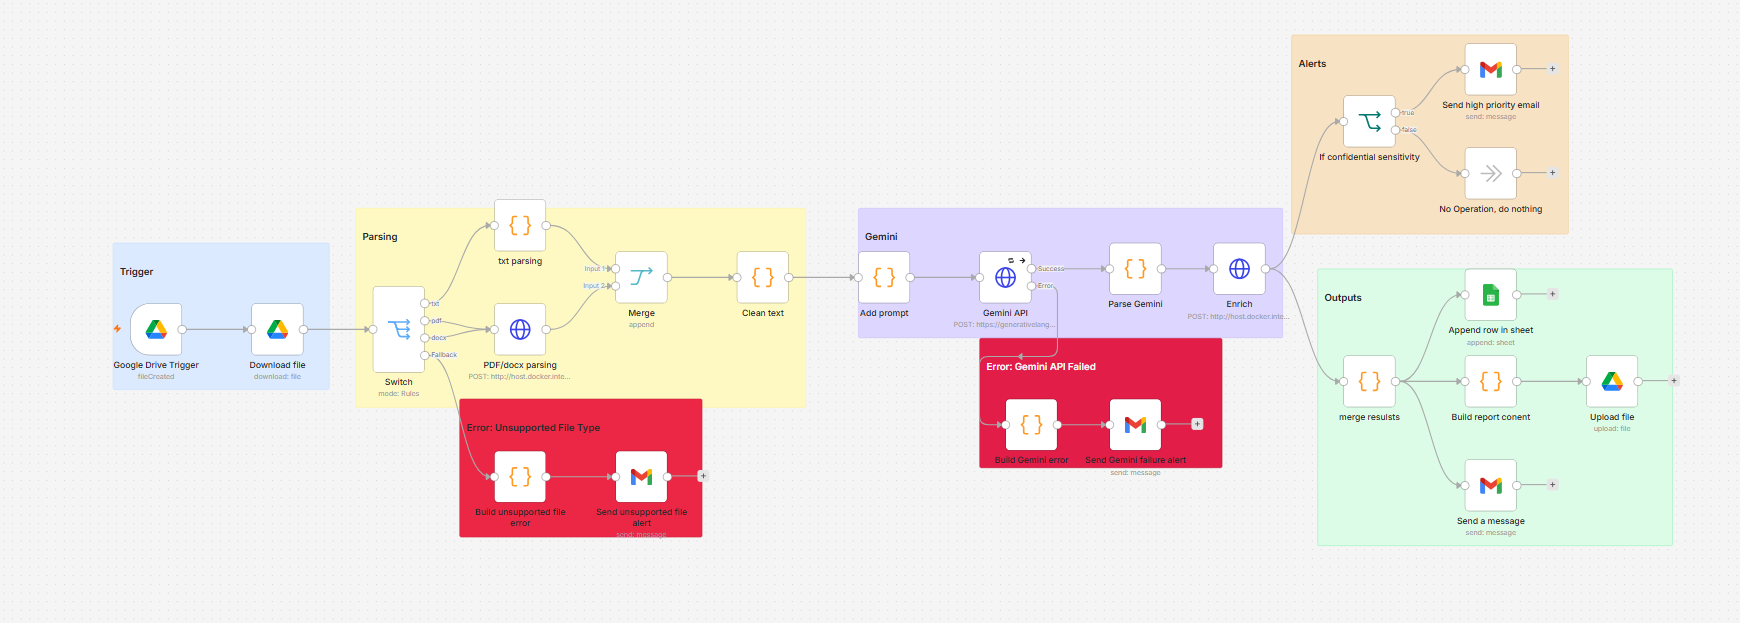
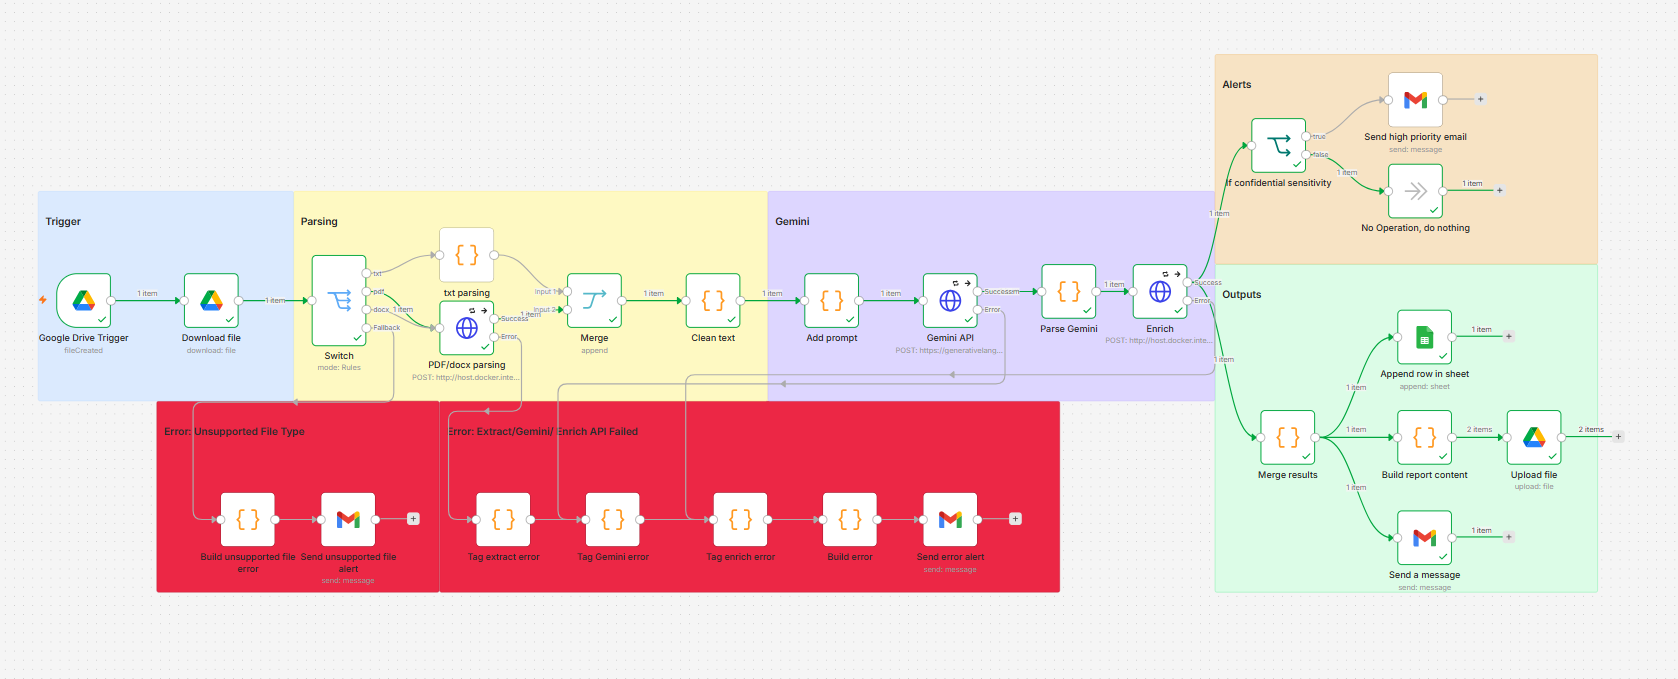
Add unified API error handling and update workflow docs

diff --git a/README.md b/README.md
@@ -1,6 +1,6 @@
 # Intelligent Cloud Document Analyst
 
-**Scenario:** Business documents · **Stack:** n8n · Gemini 3 Flash · Flask · Google Sheets · Gmail
+**Scenario:** Business documents · **Stack:** n8n · Gemini 3.5 Flash · Flask · Google Sheets · Gmail
 
 ---
 
@@ -9,7 +9,7 @@
 This project implements **2 n8n workflows** (JSON exports in `workflows/`):
 
 **1. Document Analyst (main)**  
-`incoming_docs` upload → parse (`extract_api` / Code) → Gemini analysis → enrich (`metadata_api`) → Google Sheets + `output_docs/` (`.json` + `.md`) + email · fallback: bad file type / Gemini error / confidential alert
+`incoming_docs` upload → parse (`extract_api` / Code) → Gemini analysis → enrich (`metadata_api`) → Google Sheets + `output_docs/` (`.json` + `.md`) + email · fallback: unsupported file / API failure / confidential alert
 
 **2. Daily digest (bonus)**  
 Every day at **4:15 PM** → read Google Sheets → filter last 24h → build summary → Gmail digest
@@ -51,7 +51,7 @@ Both Flask APIs must be running: `extract_api` (**8001**) · `metadata_api` (**8
 |-------|----------------|
 | **Trigger** | New file uploaded to `incoming_docs` (Google Drive) → download |
 | **Parsing** | Switch: **txt** (Code) · **pdf/docx** (`extract_api`) → Merge → Clean text |
-| **Gemini** | Prompt → Gemini 3 Flash (JSON) → Parse |
+| **Gemini** | Prompt → Gemini 3.5 Flash (JSON) → Parse |
 | **Enrich** | `metadata_api` — department, sensitivity, routing tag |
 | **Outputs** | Google Sheets row · `output_docs/{filename}_report.json` · `output_docs/{filename}_report.md` · completion email |
 
@@ -59,9 +59,11 @@ Both Flask APIs must be running: `extract_api` (**8001**) · `metadata_api` (**8
 
 | Branch | When | Result |
 |--------|------|--------|
-| Unsupported file | Switch fallback | Rejection email |
-| Gemini failure | HTTP error output | Alert email |
+| Unsupported file | Switch fallback (not txt/pdf/docx) | Rejection email |
+| API failure | Extract, Gemini, or Enrich HTTP error | Unified alert email |
 | Confidential doc | After Enrich | Immediate review email |
+
+**API error handling** — `PDF/docx parsing`, `Gemini API`, and `Enrich` use **Continue on error output** with retries. Each error branch tags the failed stage (`extract` / `gemini` / `enrich`), then flows into a shared **Build error** → **Send error alert** Gmail node. The email includes filename, HTTP code, error message, and a stage-specific hint (e.g. service down, rate limit). Unsupported file types stay on a separate branch — different payload shape, same alert pattern.
 
 **Proof of working outputs**
 